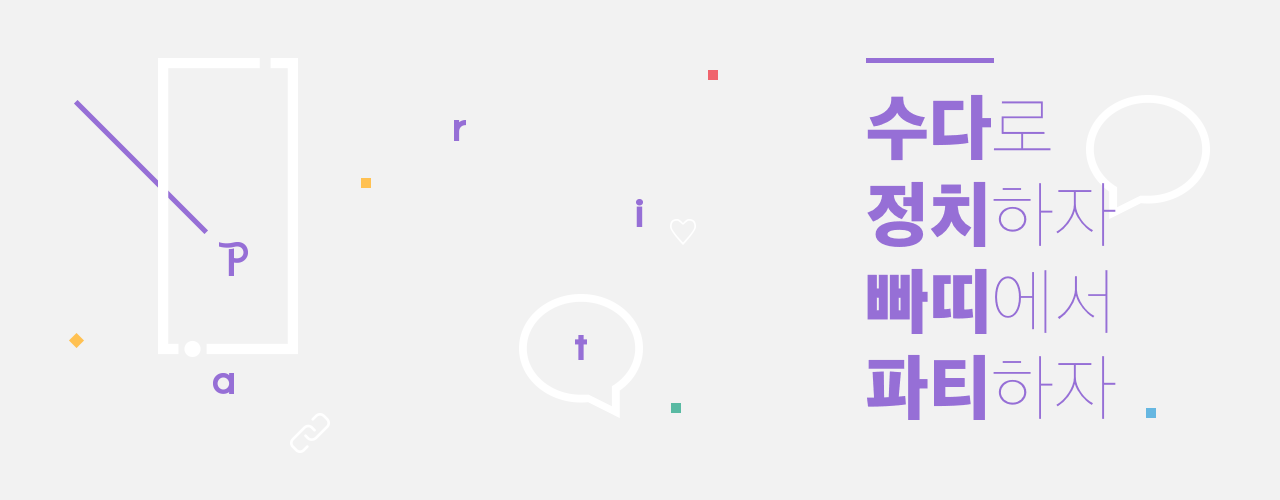
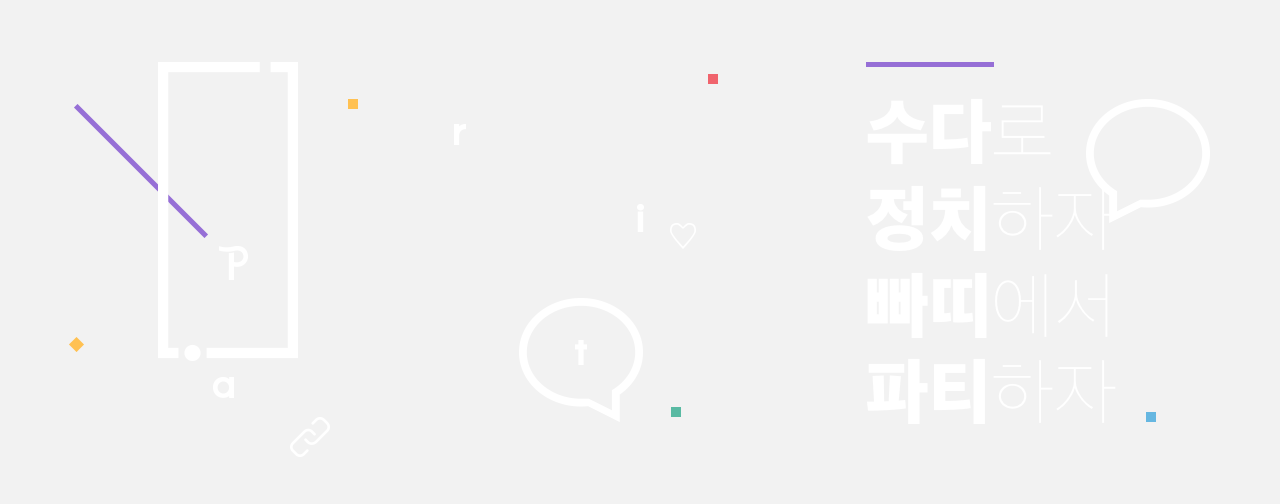
change issue_all_header

diff --git a/app/assets/stylesheets/_layout.scss b/app/assets/stylesheets/_layout.scss
@@ -41,6 +41,7 @@ footer {
 /* parti-intro */
 .parti-intro {
   position: relative;
+  min-width: 1140px;
   img {
     width: 100%;
     max-width: 100%;
@@ -48,15 +49,26 @@ footer {
   }
   &__txt {
     position: absolute;
-    top: 42%;
-    left: 27%;
-    h3 , a {
+    top: 120px;
+    left: 50%;
+    margin-left: -250px;
+    color: #000;
+    font-size: 18px;
+    text-align: center;
+    .title {
       font-weight: bold;
+      margin-bottom: 20px;
     }
-    a {
-      border: 5px solid #966fd6;
-      padding: 10px 15px;
-      display: inline-block;
+    p {
+     margin: 0;
+    }
+  }
+  .bg-black {
+    background: #000;
+    color: #fff;
+    span {
+      margin-right: -3px;
+      margin-left: 7px;
     }
   }
 }
